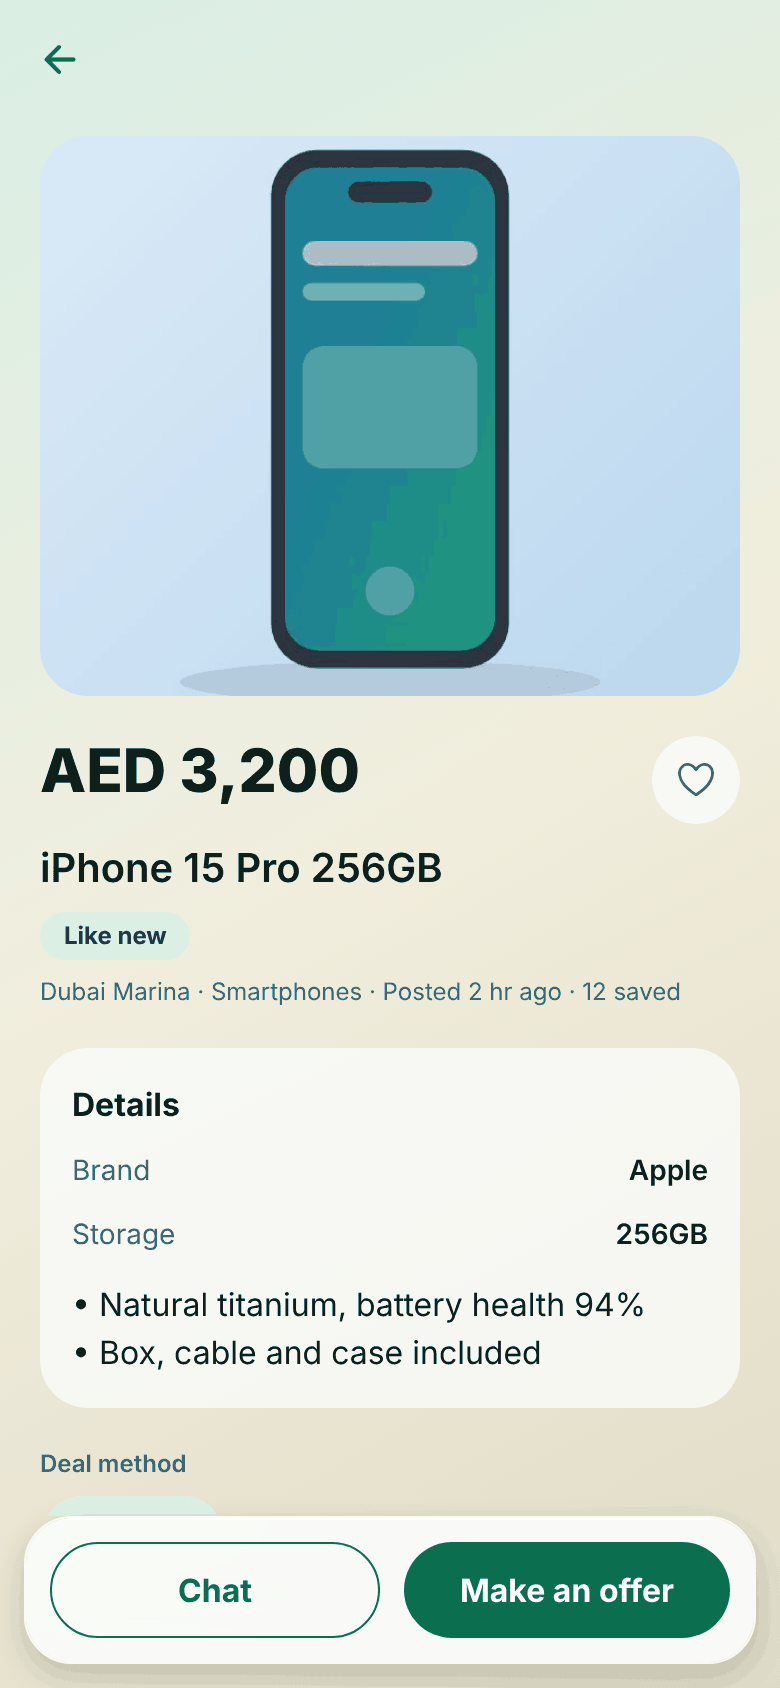
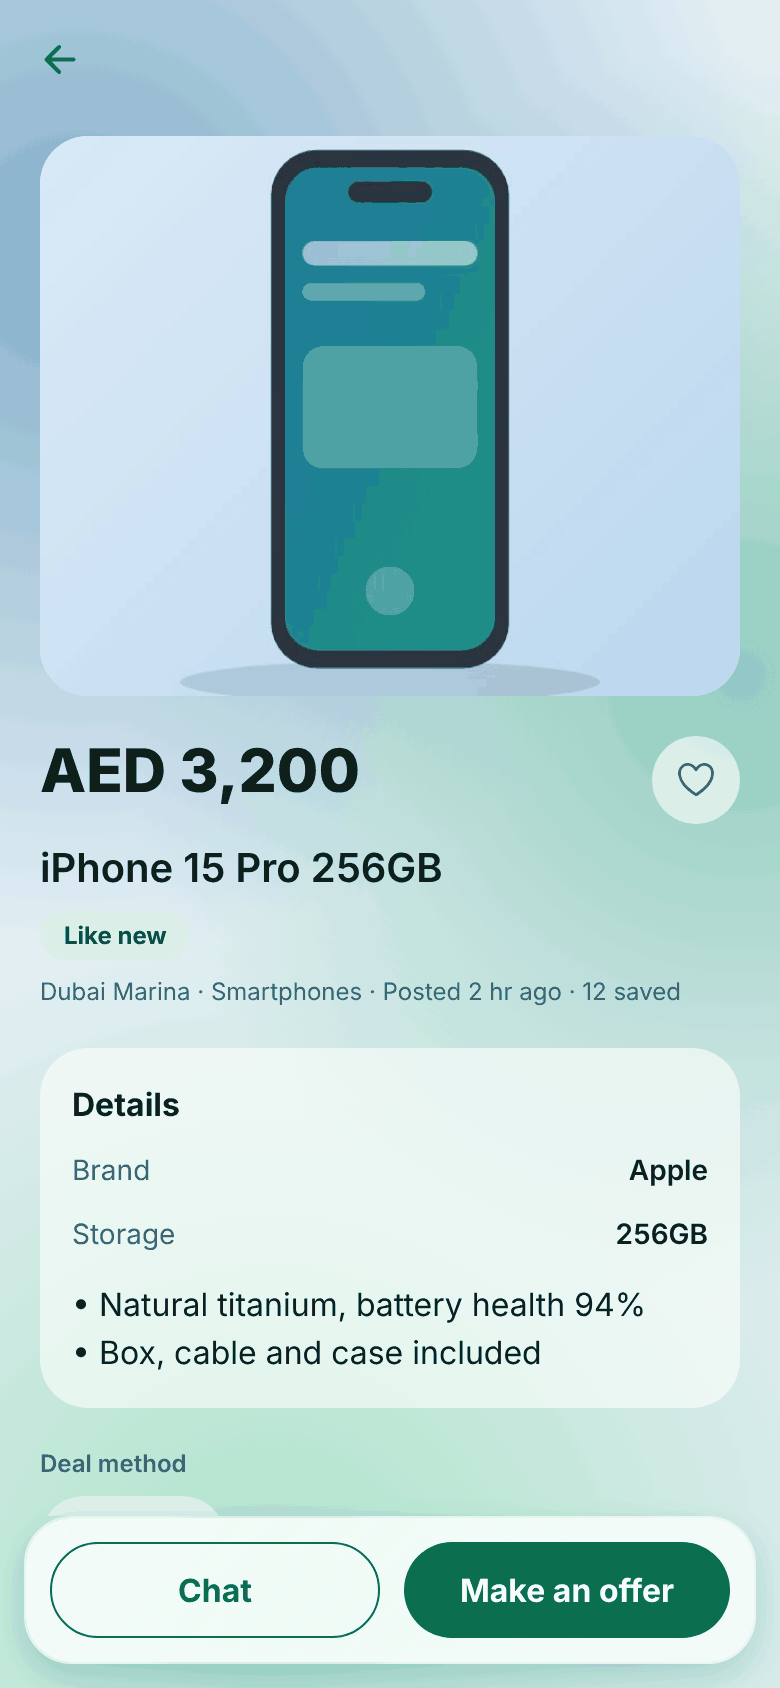
Glass look ported from the Family Expenses app: tint, sheen, edge, radial-patch backdrop
Claude-Session: https://claude.ai/code/session_01Uz4Rt3sdvRf6DwBthvUspD

diff --git a/constants/palettes.ts b/constants/palettes.ts
@@ -10,48 +10,43 @@ type Palette = {
   neutrals: { canvas: [string, string]; surface: [string, string]; line: [string, string] };
   /** Header gradient, light then dark mode. */
   header: { light: [string, string]; dark: [string, string] };
-  /** Frosted backdrop wash (three stops) and glow, light then dark mode. */
-  wash: { light: [string, string, string]; dark: [string, string, string] };
-  glow: { light: string; dark: string };
+  /** Third backdrop colour (the brand colour). */
+  accent: string;
 };
 
 /** Forest is the Family Expenses Tracker theme; the others reuse its structure with a different hue. */
 export const PALETTES: Record<PaletteId, Palette> = {
   forest: {
     swatch: '#0B6E4F',
+    accent: '#4CC38A',
     neutrals: { canvas: ['#E9F3EE', '#0C1713'], surface: ['#FAFDFB', '#15231D'], line: ['#D3E3DA', '#223A30'] },
     brand: { 50: '#DCEFE6', 100: '#E7F2EC', 400: '#4CC38A', 500: '#4CC38A', 600: '#0B6E4F', 700: '#0B3D2E', 900: '#0B3D2E' },
     hero: { DEFAULT: '#0B3D2E', dark: '#123F31', track: '#1F5A47', muted: '#BFD8CC' },
     header: { light: ['#1D6FA6', '#1F9A78'], dark: ['#15496F', '#17664F'] },
-    wash: { light: ['#D9EFE5', '#F1F6F4', '#DCEAF5'], dark: ['#0F2A21', '#0E1512', '#0F1D2B'] },
-    glow: { light: 'rgba(242,184,75,0.28)', dark: 'rgba(76,195,138,0.16)' },
   },
   ocean: {
     swatch: '#1565A8',
+    accent: '#5AB0F0',
     neutrals: { canvas: ['#E7F0F8', '#0A1520'], surface: ['#F9FCFF', '#122434'], line: ['#D0DFEC', '#203A52'] },
     brand: { 50: '#DCEBF7', 100: '#E7F0F8', 400: '#5AB0F0', 500: '#5AB0F0', 600: '#1565A8', 700: '#0B3D66', 900: '#0B3D66' },
     hero: { DEFAULT: '#0B3D66', dark: '#123A58', track: '#1F5A85', muted: '#BFD4E6' },
     header: { light: ['#1565A8', '#2AA5C9'], dark: ['#0F3F6B', '#17789A'] },
-    wash: { light: ['#D6E8F7', '#F1F5F8', '#D8F0F2'], dark: ['#0E2236', '#0D1419', '#0E2B2E'] },
-    glow: { light: 'rgba(90,176,240,0.28)', dark: 'rgba(90,176,240,0.16)' },
   },
   sunset: {
     swatch: '#C2501B',
+    accent: '#F59A5B',
     neutrals: { canvas: ['#FBEEE4', '#1A110B'], surface: ['#FFFAF6', '#2A1B12'], line: ['#F0DBCB', '#46301F'] },
     brand: { 50: '#FBE6D9', 100: '#FCEEE4', 400: '#F59A5B', 500: '#F59A5B', 600: '#C2501B', 700: '#6B2A0B', 900: '#6B2A0B' },
     hero: { DEFAULT: '#6B2A0B', dark: '#4A2512', track: '#8A3E1B', muted: '#E8CDBB' },
     header: { light: ['#D9531E', '#E8A33A'], dark: ['#8F3A12', '#A8741F'] },
-    wash: { light: ['#FBE3D3', '#F8F4F1', '#FBEBC9'], dark: ['#2A150B', '#15110E', '#2A200B'] },
-    glow: { light: 'rgba(217,83,30,0.2)', dark: 'rgba(245,154,91,0.16)' },
   },
   royal: {
     swatch: '#5B3FB5',
+    accent: '#A78BFA',
     neutrals: { canvas: ['#EEE9F8', '#140F20'], surface: ['#FCFAFF', '#21183A'], line: ['#DDD4F0', '#3A2D61'] },
     brand: { 50: '#E8E1F6', 100: '#EFEAF8', 400: '#A78BFA', 500: '#A78BFA', 600: '#5B3FB5', 700: '#2E1C66', 900: '#2E1C66' },
     hero: { DEFAULT: '#2E1C66', dark: '#2A2150', track: '#4A3590', muted: '#CFC6EA' },
     header: { light: ['#5B3FB5', '#B04FA8'], dark: ['#3C2A7A', '#7A357A'] },
-    wash: { light: ['#E4DBF6', '#F4F2F8', '#F3DCEE'], dark: ['#1B1233', '#120F18', '#2A1229'] },
-    glow: { light: 'rgba(176,79,168,0.22)', dark: 'rgba(167,139,250,0.16)' },
   },
 };
 
@@ -69,14 +64,14 @@ export function themeVars(id: PaletteId, look: 'frosted' | 'classic', black: boo
   const n = p.neutrals;
   const frosted = look === 'frosted';
   const darkCanvas = black ? '#000000' : n.canvas[1];
-  const darkSurface = black ? (frosted ? 'rgba(255,255,255,0.1)' : '#0C0C0C') : frosted ? rgba(n.surface[1], 0.74) : n.surface[1];
-  const darkLine = black ? (frosted ? 'rgba(255,255,255,0.14)' : '#1F1F1F') : frosted ? 'rgba(255,255,255,0.1)' : n.line[1];
+  const darkSurface = black ? (frosted ? 'rgba(255,255,255,0.1)' : '#0C0C0C') : frosted ? rgba(n.surface[1], 0.58) : n.surface[1];
+  const darkLine = black ? (frosted ? 'rgba(255,255,255,0.14)' : '#1F1F1F') : frosted ? 'rgba(255,255,255,0.16)' : n.line[1];
   return {
     '--canvas': n.canvas[0],
     '--canvas-dark': darkCanvas,
-    '--surface': frosted ? rgba(n.surface[0], 0.78) : n.surface[0],
+    '--surface': frosted ? rgba(n.surface[0], 0.64) : n.surface[0],
     '--surface-dark': darkSurface,
-    '--line': frosted ? 'rgba(15,31,26,0.1)' : n.line[0],
+    '--line': frosted ? 'rgba(255,255,255,0.55)' : n.line[0],
     '--line-dark': darkLine,
     '--brand-50': p.brand[50],
     '--brand-100': p.brand[100],

diff --git a/components/ui/frost.tsx b/components/ui/frost.tsx
@@ -4,6 +4,8 @@ import { Platform, StyleSheet, View, type StyleProp, type ViewStyle } from 'reac
 
 import { activePalette } from '@/constants/palettes';
 import { useIsDark } from '@/hooks/use-is-dark';
+import { withAlpha } from '@/lib/color';
+import { glassSheen } from '@/lib/glass';
 import { usePrefs } from '@/providers/prefs-provider';
 
 type Props = {
@@ -12,28 +14,23 @@ type Props = {
   style?: StyleProp<ViewStyle>;
   /** Blur strength, 1 to 100. */
   intensity?: number;
-  /** How much of the tint covers the blur (0 to 1). The bar uses a light cover; sheets full of text use a heavy one. */
-  cover?: number;
-};
-
-const rgba = (hex: string, a: number) => {
-  const n = parseInt(hex.slice(1), 16);
-  return `rgba(${n >> 16},${(n >> 8) & 255},${n & 255},${a})`;
+  /** 1 is the card tint; bars and sheets with small text use more (capped so the background still shows through). */
+  strength?: number;
 };
 
 // Android only blurs cheaply (a hardware RenderEffect) from Android 12; older phones get a more solid tint instead.
 const CAN_BLUR = Platform.OS !== 'android' || (typeof Platform.Version === 'number' && Platform.Version >= 31);
 
 /**
- * Floating chrome (tab bar, pinned footers, sheets). Frosted look: what is behind it is strongly blurred and darkened
- * under a mostly opaque tint, so it reads as a smoked-glass panel and text on it stays legible. Classic look: a flat
- * solid surface with a plain border. Blur is used only here, never on list items, to keep scrolling smooth.
- * Callers supply shape (rounded-*) and padding.
+ * Floating chrome (tab bar, pinned footers, sheets), glass as in the Family Expenses app: a see-through tint of the surface
+ * colour, a soft light sheen from the top left, a thin light edge, and a blur of whatever scrolls behind. The blur is only
+ * here, never on list cards (those use the same tint without it), to keep scrolling smooth.
+ * Classic look: a flat solid surface with a plain border. Callers supply shape (rounded-*) and padding.
  */
-export function Frost({ children, className = '', style, intensity = 90, cover = 0.78 }: Props) {
+export function Frost({ children, className = '', style, intensity = 45, strength = 1.25 }: Props) {
   const { look, appearance } = usePrefs();
   const dark = useIsDark();
-  const shadow = { shadowColor: '#000', shadowOpacity: dark ? 0.4 : 0.16, shadowRadius: 16, shadowOffset: { width: 0, height: 6 }, elevation: 6 };
+  const shadow = { shadowColor: '#000', shadowOpacity: dark ? 0.4 : 0.14, shadowRadius: 16, shadowOffset: { width: 0, height: 6 }, elevation: 6 };
 
   if (look !== 'frosted') {
     return (
@@ -45,16 +42,16 @@ export function Frost({ children, className = '', style, intensity = 90, cover =
 
   const n = activePalette().neutrals;
   const base = appearance === 'black' ? '#141414' : dark ? n.surface[1] : n.surface[0];
+  const tint = Math.min((dark ? 0.58 : 0.64) * strength, 0.88);
   // Without a real blur behind it, the tint has to do more of the work.
-  const alpha = CAN_BLUR ? cover : Math.max(cover, 0.94);
+  const alpha = CAN_BLUR ? tint : Math.max(tint, 0.94);
   return (
-    <View className={`overflow-hidden border ${dark ? 'border-white/15' : 'border-white/80'} ${className}`} style={[shadow, style]}>
+    <View className={`overflow-hidden border ${className}`} style={[shadow, { borderColor: dark ? 'rgba(255,255,255,0.16)' : 'rgba(255,255,255,0.55)' }, style]}>
       {CAN_BLUR ? (
         <BlurView pointerEvents="none" intensity={intensity} tint={dark ? 'dark' : 'light'} blurMethod="dimezisBlurViewSdk31Plus" style={StyleSheet.absoluteFill} />
       ) : null}
-      <View pointerEvents="none" style={[StyleSheet.absoluteFill, { backgroundColor: rgba(base, alpha) }]} />
-      {/* soft highlight along the top edge, like light catching glass */}
-      <View pointerEvents="none" style={{ position: 'absolute', top: 0, left: 0, right: 0, height: 1, backgroundColor: dark ? 'rgba(255,255,255,0.12)' : 'rgba(255,255,255,0.9)' }} />
+      <View pointerEvents="none" style={[StyleSheet.absoluteFill, { backgroundColor: withAlpha(base, alpha) }]} />
+      <View pointerEvents="none" style={[StyleSheet.absoluteFill, glassSheen(dark)]} />
       {children}
     </View>
   );

diff --git a/components/ui/backdrop-layer.tsx b/components/ui/backdrop-layer.tsx
@@ -1,35 +1,41 @@
-import { LinearGradient } from 'expo-linear-gradient';
-import { StyleSheet, View } from 'react-native';
+import { StyleSheet, View, useWindowDimensions } from 'react-native';
 
 import { activePalette } from '@/constants/palettes';
 import { useIsDark } from '@/hooks/use-is-dark';
+import { mix, withAlpha } from '@/lib/color';
+import { backgroundImage } from '@/lib/glass';
 import { usePrefs } from '@/providers/prefs-provider';
 
 /**
- * Screen background. Gradient background: a soft palette-coloured wash (also what the glass surfaces show through). Plain: the flat canvas colour.
- * Put it first inside the screen's root view. 
+ * Screen background. Gradient: the Family Expenses backdrop, a pale (light) or deep (dark) base from the palette with three
+ * soft colour patches, which the glass surfaces show through. Plain: the flat canvas colour.
+ * The patches are radial gradients on one view, drawn once, so scrolling never redraws them.
  */
 export function BackdropLayer() {
   const { background, appearance } = usePrefs();
   const dark = useIsDark();
+  const { width, height } = useWindowDimensions();
   const palette = activePalette();
   const black = appearance === 'black';
-  if (black && background === 'plain') return <View pointerEvents="none" style={[StyleSheet.absoluteFill, { backgroundColor: '#000000' }]} />;
-  if (background === 'plain') return <View pointerEvents="none" style={[StyleSheet.absoluteFill, { backgroundColor: dark ? palette.neutrals.canvas[1] : palette.neutrals.canvas[0] }]} />;
-  return (
-    <View pointerEvents="none" style={StyleSheet.absoluteFill}>
-      <LinearGradient
-        colors={black ? ['#000000', '#000000', '#050505'] : dark ? palette.wash.dark : palette.wash.light}
-        start={{ x: 0, y: 0 }}
-        end={{ x: 1, y: 1 }}
-        style={StyleSheet.absoluteFill}
-      />
-      <LinearGradient
-        colors={[black ? 'rgba(255,255,255,0.05)' : dark ? palette.glow.dark : palette.glow.light, 'rgba(255,255,255,0)']}
-        start={{ x: 1, y: 1 }}
-        end={{ x: 0.2, y: 0.4 }}
-        style={StyleSheet.absoluteFill}
-      />
-    </View>
-  );
+
+  if (background === 'plain') {
+    const color = black ? '#000000' : dark ? palette.neutrals.canvas[1] : palette.neutrals.canvas[0];
+    return <View pointerEvents="none" style={[StyleSheet.absoluteFill, { backgroundColor: color }]} />;
+  }
+
+  const [a, b] = palette.header.light;
+  const accent = palette.accent;
+  // Light: tint each colour toward white. Dark and pure black: bring each colour up out of black.
+  const tone = (c: string, amount: number) => (dark ? mix('#000000', c, amount) : mix(c, '#ffffff', 1 - amount));
+  const base = !dark ? mix(a, '#ffffff', 0.88) : black ? '#000000' : mix('#000000', a, 0.22);
+  const reach = Math.min(width, height);
+  const patch = (x: number, y: number, radius: number, color: string) => `radial-gradient(circle ${Math.round(radius * reach)}px at ${x}% ${y}%, ${color}, ${withAlpha(color, 0)})`;
+  // Alignment (-0.8, -0.7), (0.9, -0.2) and (-0.3, 0.9) as percentages of the screen.
+  const image = [
+    patch(10, 15, 0.9, tone(a, 0.55)),
+    patch(95, 40, 0.8, tone(b, 0.5)),
+    patch(35, 95, 0.9, tone(accent, dark ? 0.3 : 0.45)),
+  ].join(', ');
+  void height;
+  return <View pointerEvents="none" style={[StyleSheet.absoluteFill, { backgroundColor: base }, backgroundImage(image)]} />;
 }

diff --git a/components/location/nearby-card.tsx b/components/location/nearby-card.tsx
@@ -3,6 +3,7 @@ import { useState } from 'react';
 import { Pressable, Text, View } from 'react-native';
 
 import { Colors } from '@/constants/theme';
+import { useGlassSheen } from '@/hooks/use-glass-sheen';
 import { useAsyncData } from '@/hooks/use-async-data';
 import { pickName } from '@/lib/names';
 import { formatNumber } from '@/lib/intl';
@@ -17,6 +18,7 @@ export function NearbyCard() {
   const { t, country, language, locale, rtl } = usePrefs();
   const { city, origin, radiusKm, usingGps, stepCity } = useLocation();
   const [open, setOpen] = useState(false);
+  const sheen = useGlassSheen();
   const name = pickName(city, language);
 
   const stats = useAsyncData(`stats|${country.code}|${origin.lat.toFixed(3)},${origin.lng.toFixed(3)}|${radiusKm}`, () =>
@@ -29,7 +31,7 @@ export function NearbyCard() {
 
   return (
     <View className="mx-4 rounded-card bg-canvas dark:bg-canvas-dark">
-    <View className="gap-3 rounded-card border border-line bg-surface p-4 dark:border-line-dark dark:bg-surface-dark">
+    <View style={sheen} className="gap-3 rounded-card border border-line bg-surface p-4 dark:border-line-dark dark:bg-surface-dark">
       <View className="flex-row items-center">
         <Pressable accessibilityRole="button" accessibilityLabel={t('loc.prev')} onPress={() => stepCity(-1)} className="h-11 w-11 items-center justify-center">
           <Ionicons name={left} size={22} color={Colors.primary} />

diff --git a/components/listings/listing-card.tsx b/components/listings/listing-card.tsx
@@ -10,6 +10,7 @@ import { listingDistanceKm } from '@/lib/listing-query';
 import { formatMinor } from '@/lib/money';
 import type { Listing } from '@/lib/listing-types';
 import { timeAgo } from '@/lib/time';
+import { useGlassSheen } from '@/hooks/use-glass-sheen';
 import { useEngagement } from '@/providers/engagement-provider';
 import { useLocation } from '@/providers/location-provider';
 import { usePrefs } from '@/providers/prefs-provider';
@@ -19,6 +20,7 @@ export function ListingCard({ listing }: { listing: Listing }) {
   const { t, locale, language } = usePrefs();
   const { isFavorite, toggleFavorite } = useEngagement();
   const { origin } = useLocation();
+  const sheen = useGlassSheen();
   const km = listingDistanceKm(listing, origin);
   const liked = isFavorite(listing.id);
   const cover = listing.imagePaths[0];
@@ -29,6 +31,7 @@ export function ListingCard({ listing }: { listing: Listing }) {
       accessibilityRole="link"
       accessibilityLabel={`${listing.title}, ${price}`}
       onPress={() => router.push(`/listing/${listing.id}`)}
+      style={sheen}
       className="flex-1 overflow-hidden rounded-card-sm border border-line bg-surface dark:border-line-dark dark:bg-surface-dark">
       <View className="aspect-square items-center justify-center bg-brand-100 dark:bg-hero-dark">
         {cover ? (

diff --git a/lib/glass.ts b/lib/glass.ts
@@ -1,0 +1,17 @@
+import { Platform, type ViewStyle } from 'react-native';
+
+import { withAlpha } from './color';
+
+/** A CSS background-image (gradients) as a React Native style: the native property on phones, the CSS one on web. */
+export function backgroundImage(css: string): ViewStyle {
+  return (Platform.OS === 'web' ? { backgroundImage: css } : { experimental_backgroundImage: css }) as ViewStyle;
+}
+
+/**
+ * Same glass as the Family Expenses app: a soft light sheen from the top left that fades out, and a thin light edge.
+ * Put it on a card whose fill is already a translucent `bg-surface`. Light 0.30, dark 0.10 at the brightest corner.
+ */
+export function glassSheen(dark: boolean): ViewStyle {
+  const white = (a: number) => withAlpha('#ffffff', a);
+  return backgroundImage(`linear-gradient(135deg, ${white(dark ? 0.1 : 0.3)}, ${white(0)})`);
+}

diff --git a/components/ui/sheet.tsx b/components/ui/sheet.tsx
@@ -14,7 +14,7 @@ export function Sheet({ visible, title, onClose, children }: Props) {
   return (
     <Modal visible={visible} transparent animationType="slide" onRequestClose={onClose} statusBarTranslucent>
       <Pressable accessibilityLabel={t('common.cancel')} onPress={onClose} className="flex-1 bg-black/50" />
-      <Frost className="max-h-[85%] w-full self-center rounded-t-3xl border-b-0 px-5 pt-5" intensity={100} cover={0.93} style={{ paddingBottom: insets.bottom + 16, maxWidth: 560 }}>
+      <Frost className="max-h-[85%] w-full self-center rounded-t-3xl border-b-0 px-5 pt-5" intensity={70} strength={1.6} style={{ paddingBottom: insets.bottom + 16, maxWidth: 560 }}>
         <Text accessibilityRole="header" className="mb-3 text-xl font-bold text-ink dark:text-ink-dark">
           {title}
         </Text>

diff --git a/lib/color.ts b/lib/color.ts
@@ -1,0 +1,13 @@
+/** Mix two #RRGGBB colours: t = 0 gives `a`, t = 1 gives `b`. */
+export function mix(a: string, b: string, t: number): string {
+  const pa = parseInt(a.slice(1), 16);
+  const pb = parseInt(b.slice(1), 16);
+  const ch = (shift: number) => Math.round(((pa >> shift) & 255) * (1 - t) + ((pb >> shift) & 255) * t);
+  return `#${[16, 8, 0].map((s) => ch(s).toString(16).padStart(2, '0')).join('')}`;
+}
+
+/** #RRGGBB with an alpha, as a CSS rgba() string. */
+export function withAlpha(hex: string, alpha: number): string {
+  const n = parseInt(hex.slice(1), 16);
+  return `rgba(${n >> 16},${(n >> 8) & 255},${n & 255},${alpha})`;
+}

diff --git a/hooks/use-glass-sheen.ts b/hooks/use-glass-sheen.ts
@@ -1,0 +1,12 @@
+import type { ViewStyle } from 'react-native';
+
+import { useIsDark } from '@/hooks/use-is-dark';
+import { glassSheen } from '@/lib/glass';
+import { usePrefs } from '@/providers/prefs-provider';
+
+/** The glass sheen for a card in the Frosted look; nothing in Classic. */
+export function useGlassSheen(): ViewStyle | undefined {
+  const { look } = usePrefs();
+  const dark = useIsDark();
+  return look === 'frosted' ? glassSheen(dark) : undefined;
+}

diff --git a/plan.md b/plan.md
@@ -226,6 +226,7 @@ Without payments in the app, this phase is limited to free features.
   - Check the SMS provider reaches Sri Lankan carriers (Dialog, Mobitel, Hutch, Airtel) at a reasonable price; consider a local sender ID
   - Payments are out of scope, but the in-person meet-up and cash flow should be checked for local habits (WhatsApp is common)
 - [x] **First-run welcome** (2 steps): language, country, city (detect with permission, or pick; the phone's position can switch the country too), then light or dark, colours, look, background and effects. Shown once; everything stays in Settings. **Background** (gradient or plain) is now a separate setting from Look
+- [x] **Glass effect ported from the Family Expenses app** (`lib/glass.ts`, `components/ui/frost.tsx`, `backdrop-layer.tsx`; source: `lib/core/widgets/glass.dart` and `glass_backdrop.dart` there): translucent tint (0.64 light, 0.58 dark), a soft white sheen from the top left, a thin light edge, and a backdrop of a pale or deep base with three radial colour patches. Live blur only on the bottom bar, pinned footers and sheets, never on list cards. The personal-photo background and per-card strength options from that app are not ported
 - [x] README screenshots (demo mode, web build, EN/AR, light/dark) in `docs/screenshots/`; demo listings now use illustrated photos
 - [ ] Store listings (ar/en), store screenshots from real devices, privacy policy, terms, data-safety forms. No in-app purchases of goods, which keeps store review simpler
 - [ ] Beta then soft launch in one country (UAE or KSA), then expand
